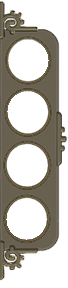
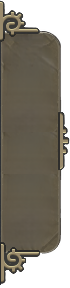
feat: recale le cadre allié sur les nouveaux gabarits
Les 6 gabarits (template_1..6.png) sont redessinés à la main par
l'utilisateur : largeur 68->70px, hauteurs modifiées, et surtout plus
aucun trou/anneau dans le disque (plaque pleine).

- combat_frame.rs : FRAME_WIDTH 70px, hauteurs et centres de médaillon
  mis à jour (validés avec l'utilisateur via artefact interactif,
  x=29.5 pour les templates 1-5, x=27.5 pour le template 6, marges
  verticales égales entre portraits).
- Ordre de peinture inversé : le template est peint en fond, les
  portraits par-dessus (plus de trou à masquer côté image).
- Masquage circulaire du portrait fait côté code (Image::corner_radius
  à la moitié de la taille native), le gabarit ne le fournit plus.
- Snapshot combat_apres_rejeu_reel.png régénéré (UPDATE_SNAPSHOTS=1).

diff --git a/crates/overlay-ui/src/panels/combat_frame.rs b/crates/overlay-ui/src/panels/combat_frame.rs
@@ -1,43 +1,44 @@
 //! Cadre décoratif "totem" du panneau Combat, un par nombre d'alliés (`template_1.png` à
 //! `template_6.png` sous `crates/overlay-ui/assets/templates/` — c'est cette copie locale au crate
-//! qu'`include_bytes!` embarque) : une colonne verticale de N médaillons circulaires, chacun
-//! destiné à recevoir le portrait de classe d'un allié (`crate::portraits::PortraitAtlas`).
-//! **2026-09-05** : un `assets/templates/` à la racine du dépôt avait été gardé un temps comme
-//! référence de l'original non recoloré (la copie embarquée ci-dessus a été recolorée, voir la
-//! refonte 2026-09-04, 4e retour, dans `panels::combat`) — retiré depuis, l'utilisateur conservant
-//! déjà cet original ailleurs (hors dépôt). La seule copie versionnée ici est donc la version
-//! recolorée effectivement affichée.
+//! qu'`include_bytes!` embarque) : une colonne verticale de N médaillons, chacun destiné à
+//! recevoir le portrait de classe d'un allié (`crate::portraits::PortraitAtlas`).
 //!
-//! **Géométrie des médaillons** — refonte 2026-09-04 (nouveaux templates fournis par
-//! l'utilisateur) : centre de chaque médaillon mesuré par analyse de pixels des 6 PNG (bbox de
-//! chaque zone alpha=0 interne, non touchée par le bord du canevas — script Python, pas reproduit
-//! ici) plutôt que déduit d'une formule, pour la même raison que la refonte précédente : les
-//! écarts entre médaillons ne sont pas parfaitement constants d'un template à l'autre.
+//! **Refonte 2026-09-07 (gabarits redessinés à la main par l'utilisateur)** : les 6 PNG ont changé
+//! de dimensions (largeur commune 68→70 px, hauteurs toutes légèrement modifiées) et surtout
+//! **n'ont plus de trou/anneau découpé dans le disque** — juste une plaque pleine, sans aucune
+//! zone transparente au centre de chaque médaillon (vérifié pixel par pixel : aucune marque, ni
+//! transparence ni couleur distincte, n'indique plus l'emplacement du portrait). Conséquences :
+//! - Le masquage circulaire, auparavant fourni par l'anneau opaque du template repeint par-dessus
+//!   le portrait, doit maintenant être fait **côté code** : chaque portrait est peint avec
+//!   `egui::Image::corner_radius` réglé à la moitié de `NATIVE_PORTRAIT_SIZE` (un carré aux coins
+//!   arrondis à 50 % devient un cercle parfait) — voir `PORTRAIT_CORNER_RADIUS`.
+//! - L'ordre de peinture s'inverse : le template est désormais peint **avant** les portraits (plus
+//!   de trou à masquer, c'est lui qui sert de fond), les portraits (déjà rognés en cercle) par-
+//!   dessus. Infobulle + pourcentage restent peints en dernier (inchangé).
+//! - Les centres de médaillon ne peuvent plus être mesurés depuis l'image (pas de trou à
+//!   localiser) : ils ont été validés avec l'utilisateur via un artefact de calibration interactif
+//!   (repère croix + carré 48×48, rendu avec portrait réel côté à côté pour chacun des 6 gabarits,
+//!   plusieurs itérations avant validation) plutôt que mesurés par script. Axe horizontal retenu :
+//!   x=29,5 pour les templates 1 à 5, x=27,5 pour le template 6 (dernier ajustement demandé
+//!   explicitement par l'utilisateur sur ce gabarit précis) — pas une formule unique, une valeur
+//!   par gabarit. Axe vertical : les N portraits d'un gabarit sont espacés de N+1 marges
+//!   rigoureusement égales (avant le premier, entre chaque paire, après le dernier) dans la
+//!   portion du gabarit qui atteint sa pleine largeur (hors chapiteaux/coins qui la rétrécissent).
 //!
-//! **Le portrait n'est PAS mis à l'échelle du trou mesuré** (première version de cette refonte,
-//! corrigée après retour utilisateur avec capture d'écran + composite de référence "cible.png" à
-//! l'appui) : il est collé à sa taille NATIVE `NATIVE_PORTRAIT_SIZE` (48×48, non re-échantillonné,
-//! voir `crate::portraits`), centré sur le trou mesuré — plus GRAND que le trou (~41 px), il
-//! déborde donc volontairement dans l'anneau, que le template repeint par-dessus masque
-//! proprement (voir l'ordre de peinture dans `show`). C'est exactement la méthode déjà validée
-//! pour l'ancienne géométrie — facteur d'échelle ≈0.3116 mesuré empiriquement (48⁄150, affiné après
-//! mesure du résultat) pour faire passer les ronds de slot des templates de ~150-155 px à ~47-48 px,
-//! compatibles avec des portraits natifs 48×48 (validation ponctuelle 2026-09-03, avant
-//! `overlay-testkit` ; désormais couverte en continu par ses tests de non-régression visuelle, voir
-//! `crates/overlay-testkit/tests/panels.rs`) — reconduite telle quelle ici, la seule chose qui
-//! change d'un jeu de templates à l'autre, ce sont les centres mesurés.
+//! **Le portrait n'est toujours PAS mis à l'échelle** : collé à sa taille NATIVE
+//! `NATIVE_PORTRAIT_SIZE` (48×48, non re-échantillonné, voir `crate::portraits`), seulement
+//! rogné en cercle — inchangé par rapport à la géométrie précédente, qui collait déjà un portrait
+//! 48×48 plus grand que le trou mesuré (~41 px) pour laisser l'anneau masquer le débordement ; ici
+//! le rognage en cercle joue exactement ce rôle.
 //! Corollaire : le canevas n'est PAS étiré à l'affichage, `FRAME_WIDTH` vaut la largeur native du
-//! PNG (68 px, commune aux 6) — un canevas étiré aurait fallu re-proportionner le portrait en
-//! conséquence pour garder le même ratio taille-portrait/taille-trou que celui mesuré sur
-//! `cible.png`, inutilement compliqué face à un simple 1:1.
+//! PNG (70 px, commune aux 6).
 //!
-//! **Ordre des slots — refonte 2026-09-04** (retour utilisateur, redesign des barres) : ce N'EST
-//! PLUS l'ordre d'affichage trié par dégâts décroissant. `fighters` est désormais dans l'ordre
-//! STABLE défini par `overlay_engine::FightSnapshot::fighters` (ordre d'arrivée en combat, voir sa
-//! doc) — les portraits ne doivent plus changer de position à mesure que les dégâts évoluent,
-//! seules les barres de dégâts (peintes ailleurs, voir `panels::combat::show`) restent triées et
-//! filtrées (uniquement dégâts > 0). Ce module ne peint donc plus aucune barre : seuls le cadre,
-//! les portraits, leur infobulle au survol et leur pourcentage de dégâts (coin bas-droit, voir
+//! **Ordre des slots** : `fighters` est dans l'ordre STABLE défini par
+//! `overlay_engine::FightSnapshot::fighters` (ordre d'arrivée en combat, voir sa doc) — les
+//! portraits ne changent pas de position à mesure que les dégâts évoluent, seules les barres de
+//! dégâts (peintes ailleurs, voir `panels::combat::show`) restent triées et filtrées (uniquement
+//! dégâts > 0). Ce module ne peint donc aucune barre : seuls le cadre, les portraits, leur
+//! infobulle au survol et leur pourcentage de dégâts (coin bas-droit, voir
 //! `panels::combat::paint_portrait_percent`) — le découplage complet portraits/barres est décidé
 //! et assemblé par l'appelant.
 //!
@@ -54,15 +55,21 @@ use crate::ui_icons::UiIcons;
 /// Nombre de médaillons du plus grand template disponible — voir la doc de module.
 pub const MAX_FRAME_SLOTS: usize = 6;
 
-/// Largeur de canevas commune aux 6 templates — largeur NATIVE du PNG (68 px, commune aux 6),
+/// Largeur de canevas commune aux 6 templates — largeur NATIVE du PNG (70 px, commune aux 6),
 /// canevas non étiré à l'affichage (voir doc de module).
-const FRAME_WIDTH: f32 = 68.0;
+const FRAME_WIDTH: f32 = 70.0;
+
+/// Rayon de rognage circulaire du portrait — moitié de `NATIVE_PORTRAIT_SIZE` (48/2), un carré
+/// aux coins arrondis à ce rayon devient un cercle parfait (voir doc de module). Les gabarits
+/// n'ont plus de trou/anneau pour faire ce travail à la place du code.
+const PORTRAIT_CORNER_RADIUS: u8 = (NATIVE_PORTRAIT_SIZE / 2.0) as u8;
 
 struct TemplateInfo {
     bytes: &'static [u8],
     height: f32,
     /// Centre de chaque médaillon, coordonnées locales au canevas (origine = coin haut-gauche du
-    /// template, avant tout décalage à l'écran) — voir doc de module pour la méthode de mesure.
+    /// template, avant tout décalage à l'écran) — voir doc de module pour la méthode de
+    /// validation (artefact interactif, plus une mesure de trou : il n'y en a plus).
     slot_centers: &'static [egui::Pos2],
 }
 
@@ -75,54 +82,54 @@ macro_rules! template_asset {
 const TEMPLATES: [TemplateInfo; MAX_FRAME_SLOTS] = [
     TemplateInfo {
         bytes: template_asset!(1),
-        height: 121.0,
-        slot_centers: &[egui::pos2(26.0, 59.0)],
+        height: 130.0,
+        slot_centers: &[egui::pos2(29.5, 64.5)],
     },
     TemplateInfo {
         bytes: template_asset!(2),
-        height: 174.0,
-        slot_centers: &[egui::pos2(26.0, 60.0), egui::pos2(26.0, 112.0)],
+        height: 180.0,
+        slot_centers: &[egui::pos2(29.5, 62.3), egui::pos2(29.5, 114.7)],
     },
     TemplateInfo {
         bytes: template_asset!(3),
-        height: 227.0,
+        height: 232.0,
         slot_centers: &[
-            egui::pos2(26.0, 60.0),
-            egui::pos2(26.0, 111.0),
-            egui::pos2(26.0, 165.0),
+            egui::pos2(29.5, 64.2),
+            egui::pos2(29.5, 116.5),
+            egui::pos2(29.5, 168.8),
         ],
     },
     TemplateInfo {
         bytes: template_asset!(4),
         height: 288.0,
         slot_centers: &[
-            egui::pos2(28.0, 60.0),
-            egui::pos2(27.0, 111.5),
-            egui::pos2(27.0, 165.0),
-            egui::pos2(26.0, 218.5),
+            egui::pos2(29.5, 63.4),
+            egui::pos2(29.5, 115.8),
+            egui::pos2(29.5, 168.2),
+            egui::pos2(29.5, 220.6),
         ],
     },
     TemplateInfo {
         bytes: template_asset!(5),
-        height: 333.0,
+        height: 339.0,
         slot_centers: &[
-            egui::pos2(26.0, 60.0),
-            egui::pos2(26.0, 111.5),
-            egui::pos2(26.0, 165.0),
-            egui::pos2(26.0, 218.0),
-            egui::pos2(26.0, 271.0),
+            egui::pos2(29.5, 63.5),
+            egui::pos2(29.5, 116.0),
+            egui::pos2(29.5, 168.5),
+            egui::pos2(29.5, 221.0),
+            egui::pos2(29.5, 273.5),
         ],
     },
     TemplateInfo {
         bytes: template_asset!(6),
-        height: 386.0,
+        height: 393.0,
         slot_centers: &[
-            egui::pos2(26.0, 60.0),
-            egui::pos2(26.0, 111.5),
-            egui::pos2(26.0, 165.0),
-            egui::pos2(26.0, 218.0),
-            egui::pos2(26.0, 271.0),
-            egui::pos2(26.0, 324.0),
+            egui::pos2(27.5, 66.9),
+            egui::pos2(27.5, 118.7),
+            egui::pos2(27.5, 170.6),
+            egui::pos2(27.5, 222.4),
+            egui::pos2(27.5, 274.3),
+            egui::pos2(27.5, 326.1),
         ],
     },
 ];
@@ -159,11 +166,10 @@ impl CombatFrame {
     /// peint sur chaque portrait (voir `panels::combat::paint_portrait_percent`) ; aucune barre
     /// n'est peinte ici (voir doc de module).
     ///
-    /// Ordre de peinture (méthode déjà validée, voir doc de module) : portrait D'ABORD,
-    /// template ENSUITE par-dessus — l'anneau opaque du médaillon masque proprement le
-    /// débordement du portrait 48×48 collé sans redimensionnement dans un trou mesuré à ~41 px
-    /// (voir doc de module). Infobulle + pourcentage sont peints en DERNIER, par-dessus le cadre :
-    /// une zone interactive ou un texte masqués par le cadre ne serviraient à rien.
+    /// Ordre de peinture (inversé depuis la refonte 2026-09-07, voir doc de module) : template
+    /// D'ABORD (fond, plus de trou à masquer), portraits ENSUITE par-dessus — chacun rogné en
+    /// cercle via `PORTRAIT_CORNER_RADIUS`. Infobulle + pourcentage sont peints en DERNIER,
+    /// par-dessus les portraits : une zone interactive ou un texte masqués ne serviraient à rien.
     pub fn show(
         &self,
         ui: &mut egui::Ui,
@@ -188,6 +194,10 @@ impl CombatFrame {
             )
             .0;
 
+        // Le template est peint D'ABORD (voir doc de fonction) : simple fond, plus de trou à
+        // masquer côté image.
+        egui::Image::new(texture).paint_at(ui, frame_rect);
+
         for (fighter, &center) in fighters.iter().zip(template.slot_centers) {
             let pos = frame_rect.min + center.to_vec2();
             let portrait_rect = egui::Rect::from_center_size(
@@ -199,7 +209,9 @@ impl CombatFrame {
             });
             match texture {
                 Some(texture) => {
-                    egui::Image::new(texture).paint_at(ui, portrait_rect);
+                    egui::Image::new(texture)
+                        .corner_radius(PORTRAIT_CORNER_RADIUS)
+                        .paint_at(ui, portrait_rect);
                 }
                 None => {
                     // Allié pas encore classifié (roster absent, `breed` inconnu de ce combat) :
@@ -208,21 +220,18 @@ impl CombatFrame {
                     // grey_tint_if_ko` : pas de version grisée précalculée pour cet asset unique,
                     // contrairement aux portraits de classe, voir `portraits.rs`).
                     let image = egui::Image::new(icons.unknown_entity_texture())
+                        .corner_radius(PORTRAIT_CORNER_RADIUS)
                         .tint(super::combat::grey_tint_if_ko(fighter.is_ko));
                     image.paint_at(ui, portrait_rect);
                 }
             }
         }
 
-        // Le template est peint APRÈS tous les portraits (voir doc de module) : un seul appel,
-        // l'anneau de chaque médaillon masque le débordement de chacun d'eux d'un coup.
-        egui::Image::new(texture).paint_at(ui, frame_rect);
-
         // Infobulle (nom, demande utilisateur : les portraits ne sont plus alignés avec "leur"
         // barre depuis le découplage tri portraits/barres — sans elle, un portrait devient
         // impossible à identifier dès que sa barre n'est plus juste à côté) + pourcentage de
         // dégâts sur le portrait (bas-droite, voir `panels::combat::paint_portrait_percent`),
-        // peints APRÈS le cadre — voir doc de fonction.
+        // peints APRÈS les portraits — voir doc de fonction.
         for (fighter, &center) in fighters.iter().zip(template.slot_centers) {
             let pos = frame_rect.min + center.to_vec2();
             let portrait_rect = egui::Rect::from_center_size(
